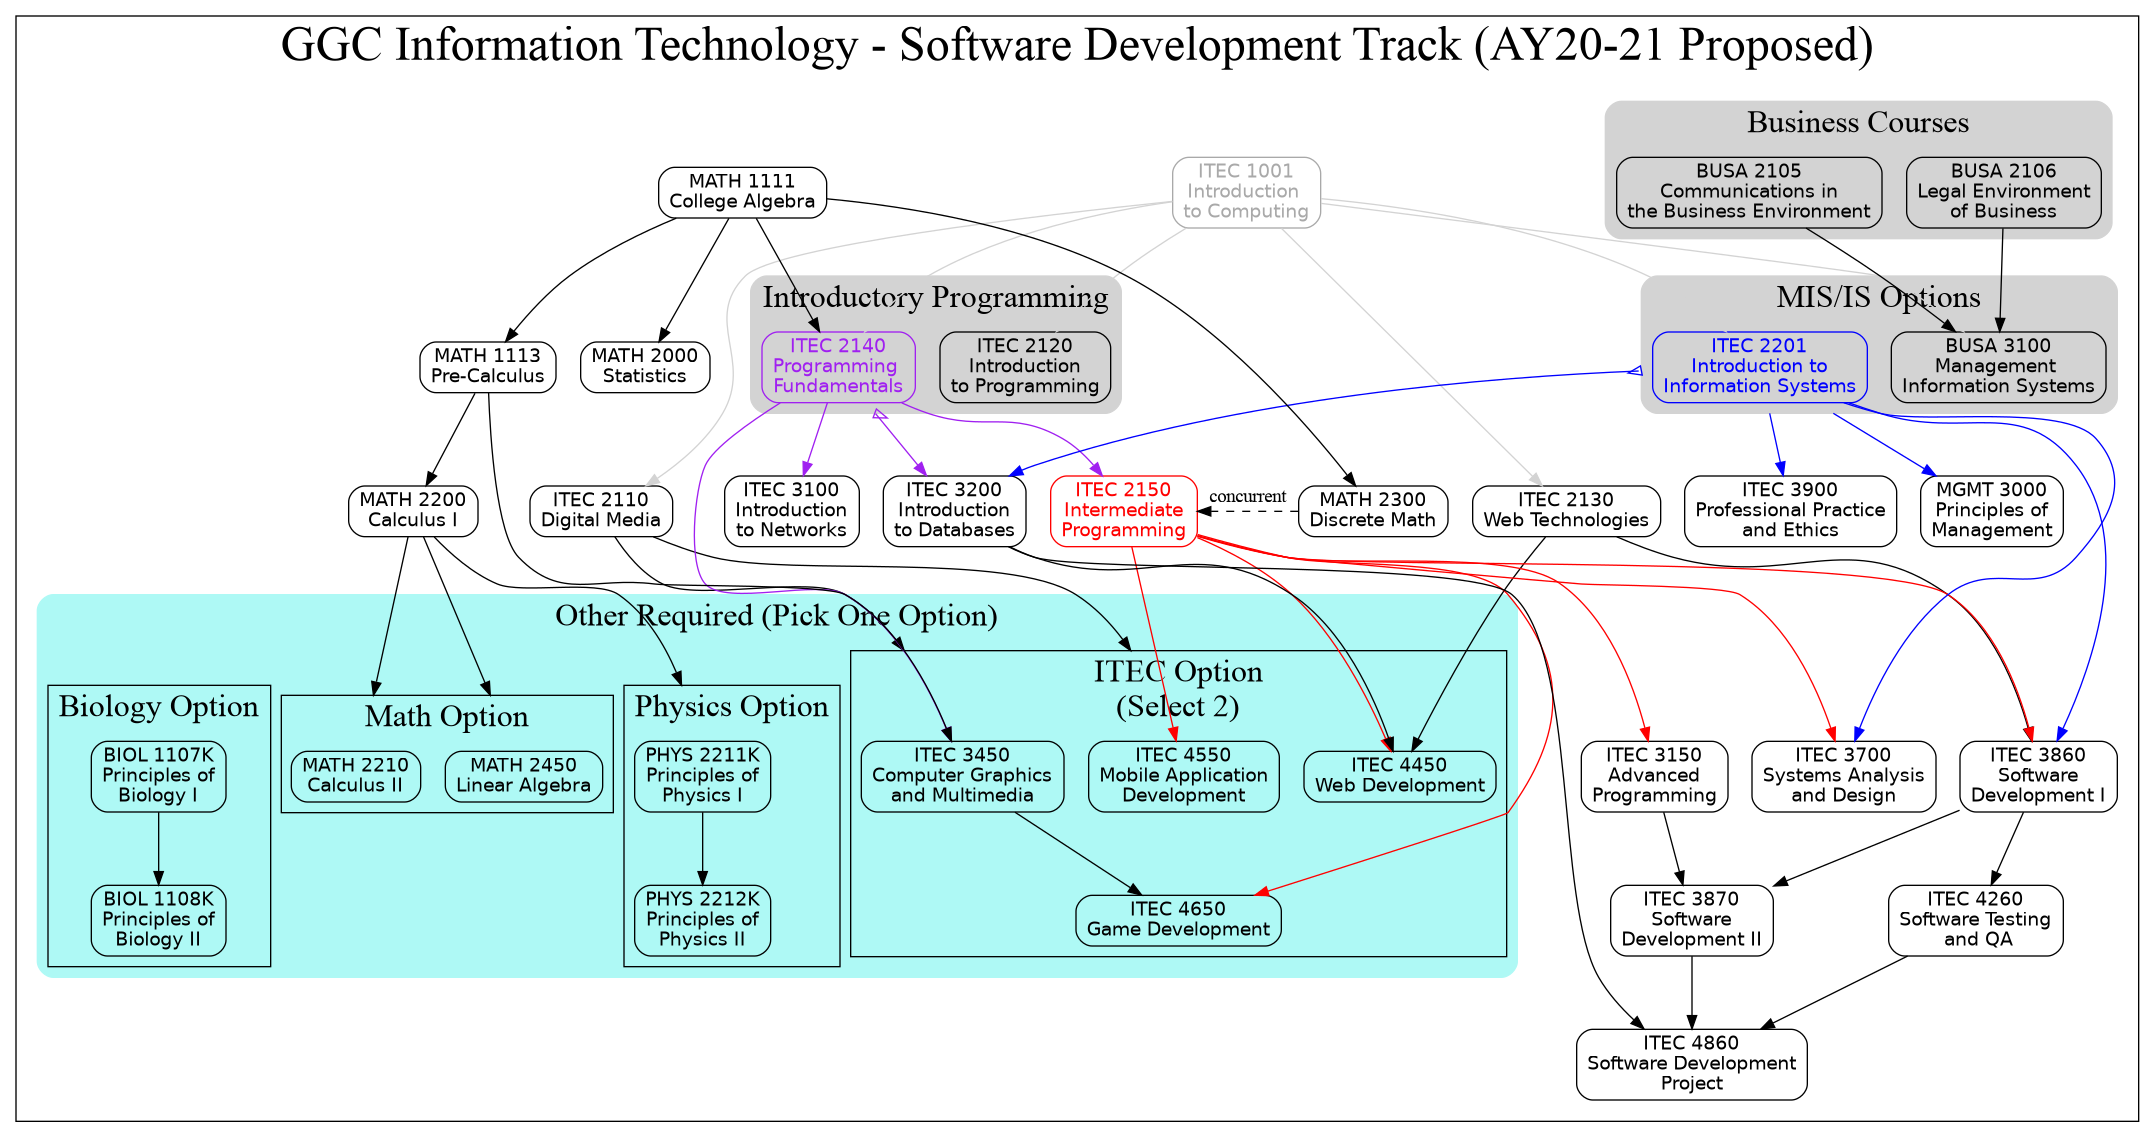
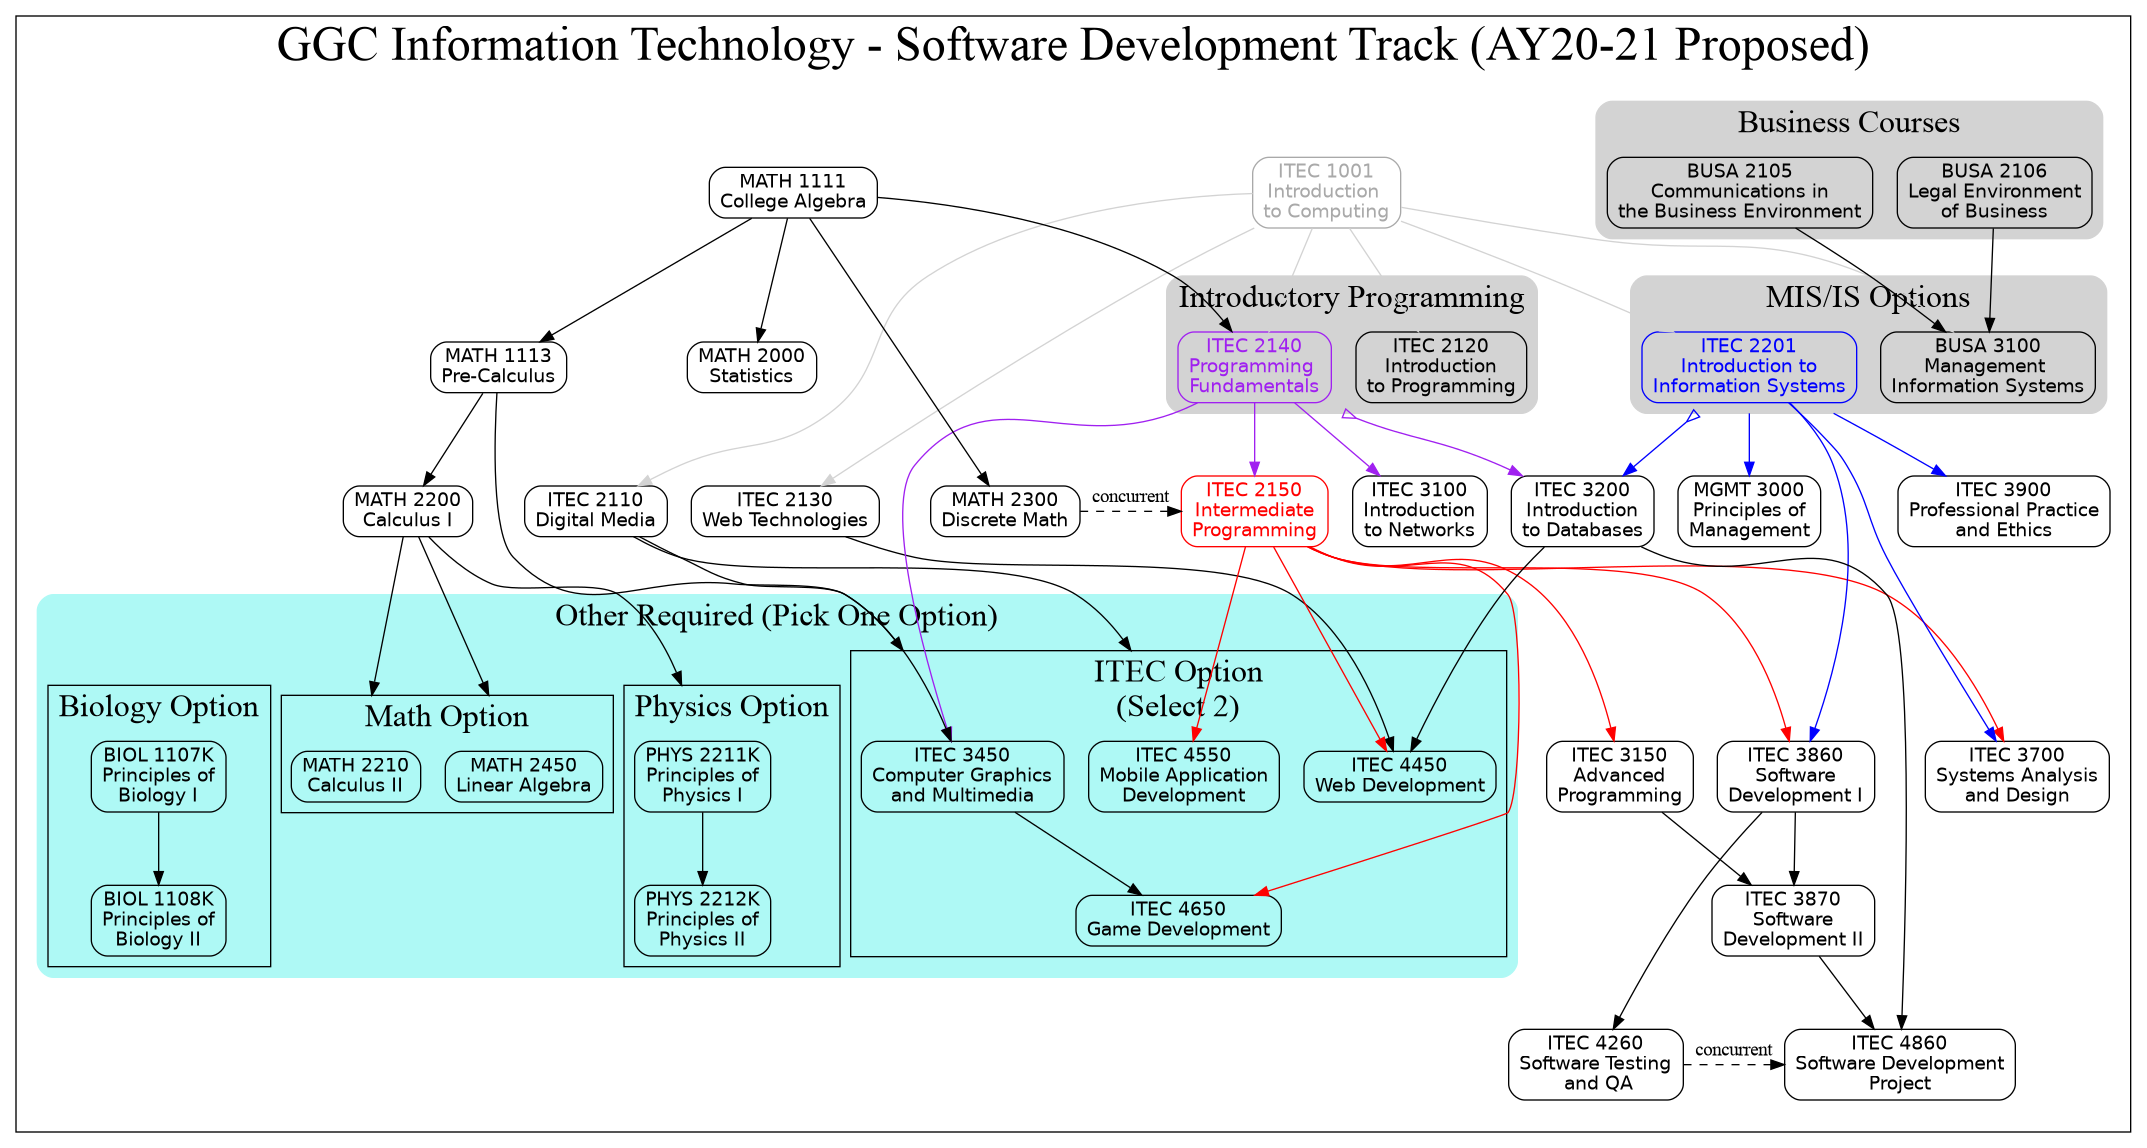
Separated approved and proposed SD changes

Changed region(s): [[0.0, 0.0923, 0.9986, 1.0], [0.1248, 0.0, 0.8738, 0.0616], [0.6241, 0.7388, 0.6553, 0.7696]]

diff --git a/CHANGES.md b/CHANGES.md
@@ -24,3 +24,4 @@
 ![Software Development](AY20-21/outputs/SoftwareDevelopment.png)
 
 ## Proposed for AY21-22: ITEC 3860 and ITEC 4860 prereqs
+![Software Development](AY21-22/outputs/SoftwareDevelopment.png)
